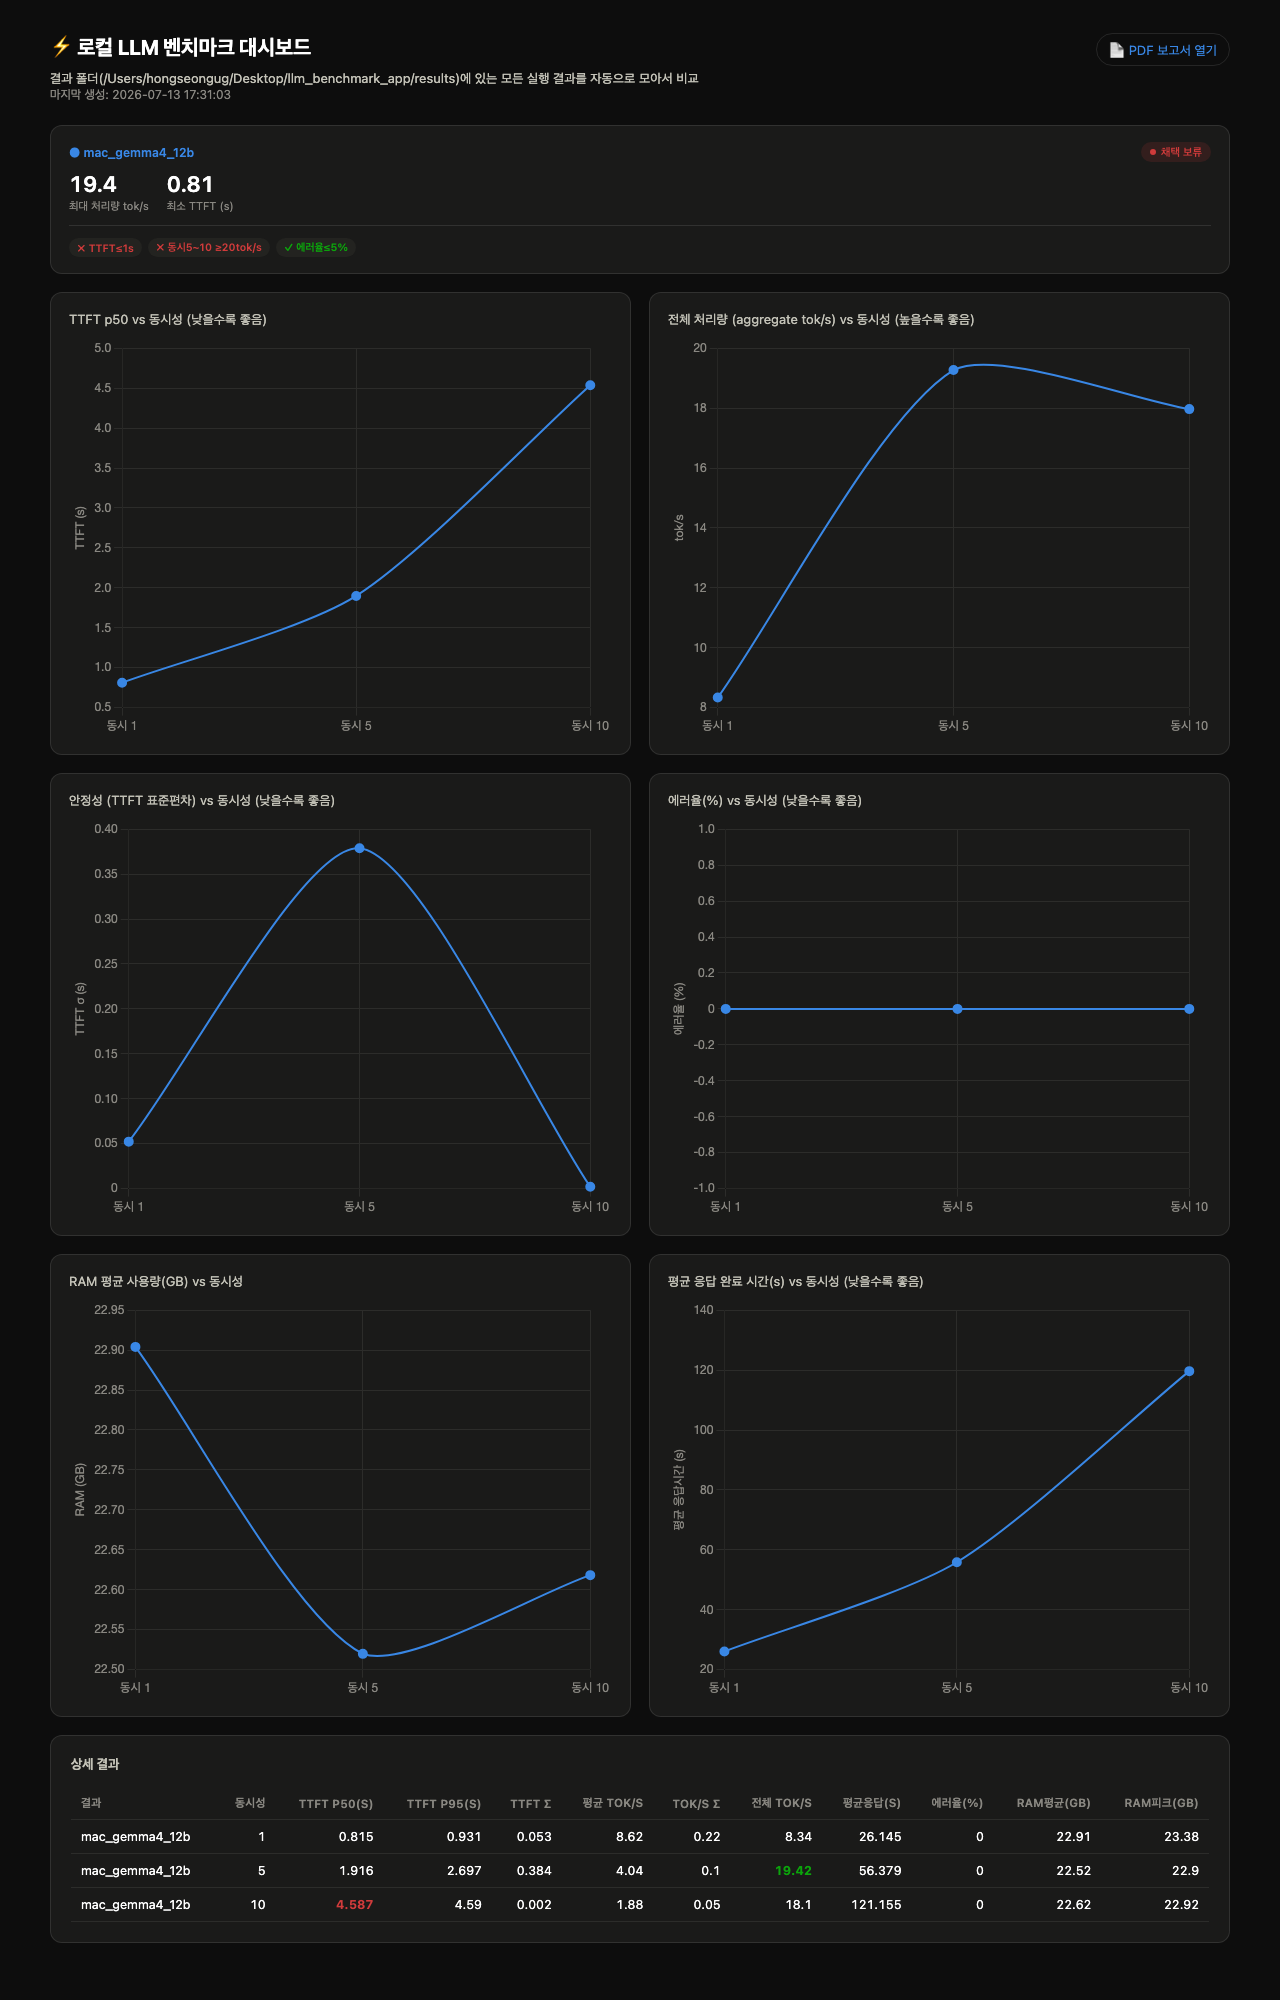
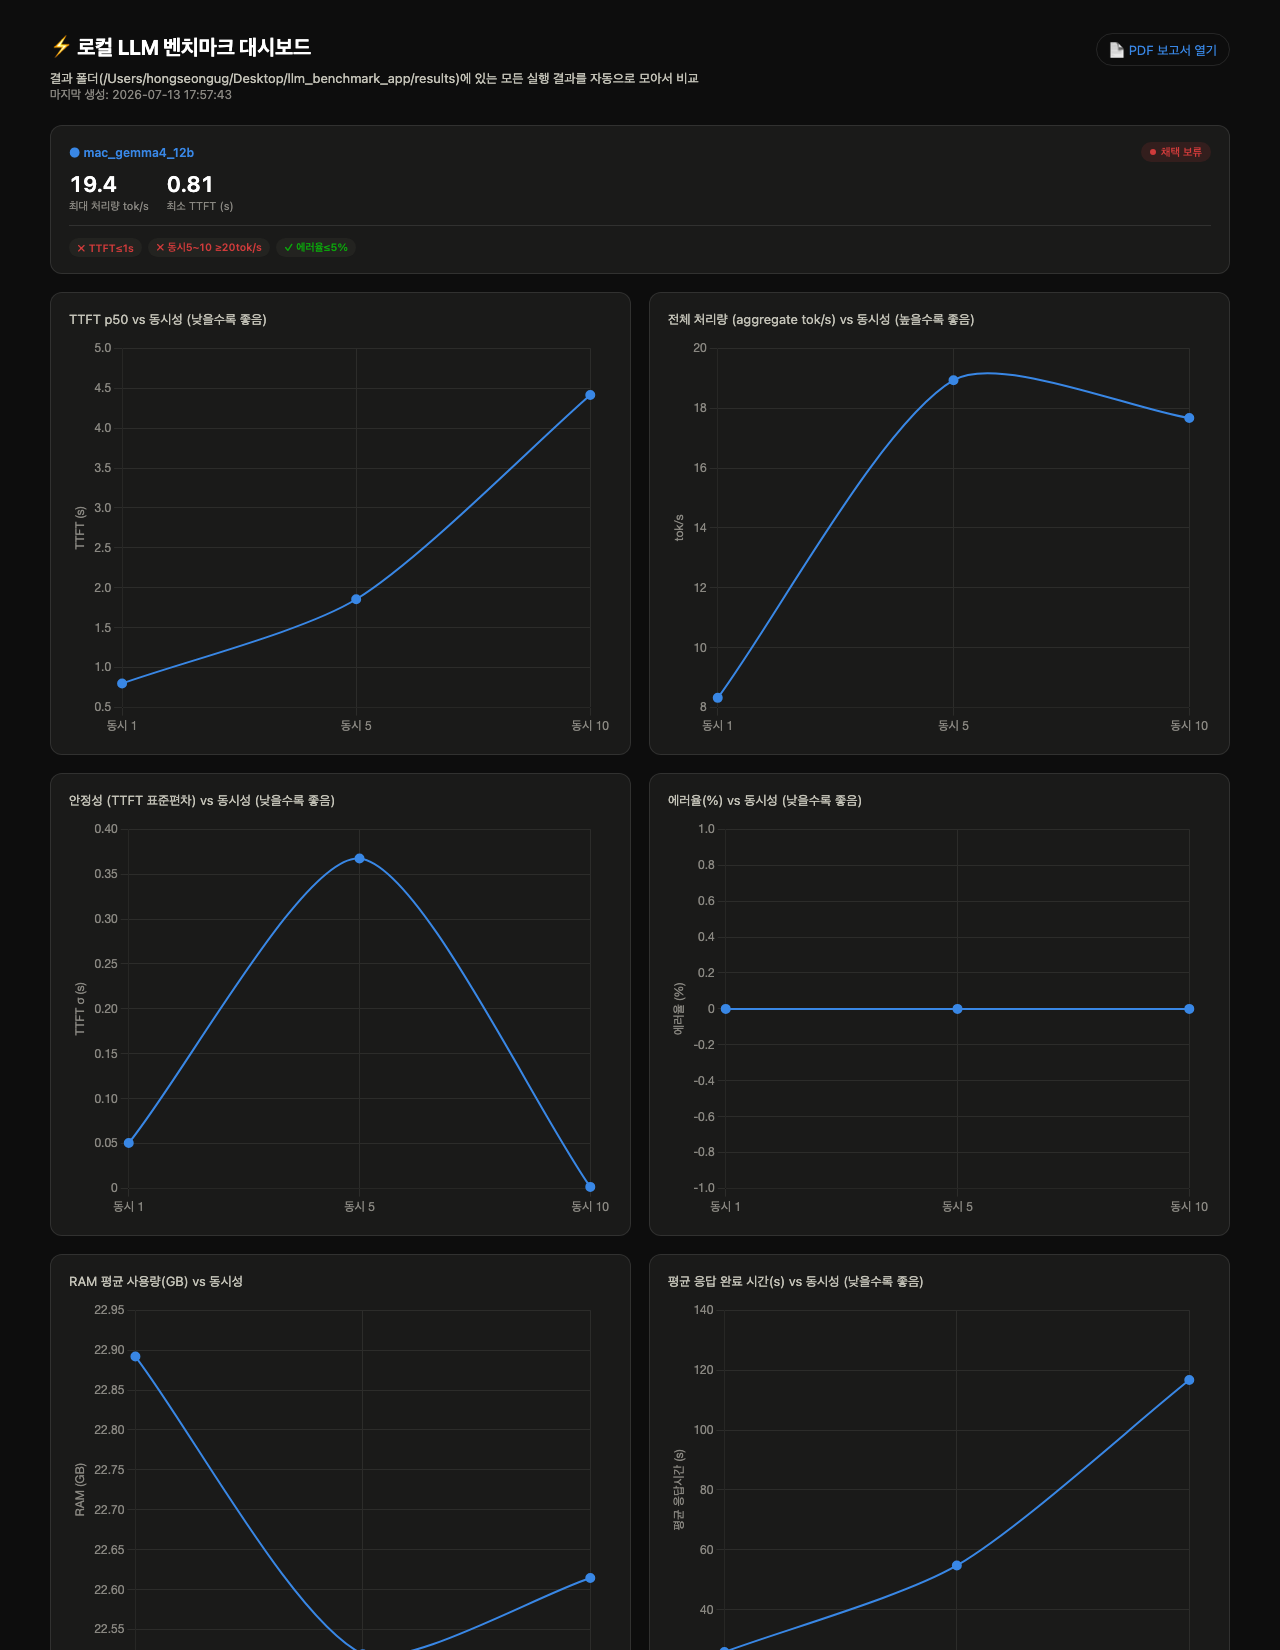
Fix PDF font rendering and polish report layout
내장 CID 폰트(HYSMyeongJo-Medium)가 라틴 문자를 전각으로 그려 "TTFT"가
"T T F T"처럼 벌어지는 문제가 있어 NanumGothic(SIL OFL, 번들)으로 교체.
누락되던 σ 글리프는 PDF 한정으로 "SD" 표기로 대체. 굵은 헤딩, 판정 강조
박스, 상단 액센트 바, 페이지 푸터 추가로 레이아웃도 정리.

diff --git a/benchmark_app.py b/benchmark_app.py
@@ -38,13 +38,19 @@ from reportlab.lib.pagesizes import A4, landscape
 from reportlab.lib.styles import ParagraphStyle
 from reportlab.lib.units import mm
 from reportlab.pdfbase import pdfmetrics
-from reportlab.pdfbase.cidfonts import UnicodeCIDFont
+from reportlab.pdfbase.ttfonts import TTFont
 from reportlab.platypus import Paragraph, SimpleDocTemplate, Spacer, Table, TableStyle
 
 DEFAULT_PROMPT = "너는 고객 상담 챗봇이다. 배송 지연 문의에 대해 3문장으로 답변해줘."
 
-PDF_FONT = "HYSMyeongJo-Medium"  # reportlab 내장 CID 폰트 (한글, 별도 폰트 파일 불필요)
-pdfmetrics.registerFont(UnicodeCIDFont(PDF_FONT))
+# 내장 CID 폰트(HYSMyeongJo-Medium)는 라틴 문자를 전각으로 그려 "TTFT"가 "T T F T"처럼 벌어지는 문제가 있어
+# 폭이 정상인 오픈소스 한글 폰트(NanumGothic, SIL OFL)로 교체함 — assets/fonts/에 번들
+_FONT_DIR = os.path.join(os.path.dirname(os.path.abspath(__file__)), "assets", "fonts")
+PDF_FONT = "NanumGothic"
+PDF_FONT_BOLD = "NanumGothic-Bold"
+pdfmetrics.registerFont(TTFont(PDF_FONT, os.path.join(_FONT_DIR, "NanumGothic-Regular.ttf")))
+pdfmetrics.registerFont(TTFont(PDF_FONT_BOLD, os.path.join(_FONT_DIR, "NanumGothic-Bold.ttf")))
+pdfmetrics.registerFontFamily(PDF_FONT, normal=PDF_FONT, bold=PDF_FONT_BOLD)
 
 
 async def single_request(client: httpx.AsyncClient, url: str, model: str, prompt: str) -> dict:
@@ -600,7 +606,7 @@ def judge_adoption(rows: list) -> tuple:
 COMPARE_METRICS = [
     ("p50_ttft", "TTFT p50", True, "s"),
     ("aggregate_tok_per_sec", "전체 처리량", False, "tok/s"),
-    ("ttft_stddev", "안정성 (TTFT σ)", True, "s"),
+    ("ttft_stddev", "안정성 (TTFT SD)", True, "s"),
     ("error_rate", "에러율", True, "%"),
 ]
 
@@ -634,14 +640,16 @@ def generate_pdf_report(results_dir: str) -> str:
     out_path = os.path.join(results_dir, "report.pdf")
 
     styles = {
-        "title": ParagraphStyle("title", fontName=PDF_FONT, fontSize=18, leading=22, spaceAfter=4),
+        "title": ParagraphStyle("title", fontName=PDF_FONT_BOLD, fontSize=20, leading=24, spaceAfter=4,
+                                 textColor=colors.HexColor("#12141a")),
         "meta": ParagraphStyle("meta", fontName=PDF_FONT, fontSize=9, textColor=colors.grey, spaceAfter=14),
-        "h2": ParagraphStyle("h2", fontName=PDF_FONT, fontSize=13, leading=16, spaceBefore=16, spaceAfter=6),
+        "h2": ParagraphStyle("h2", fontName=PDF_FONT_BOLD, fontSize=13, leading=16, spaceBefore=18, spaceAfter=8,
+                              textColor=colors.HexColor("#12141a")),
         "body": ParagraphStyle("body", fontName=PDF_FONT, fontSize=10, leading=15),
-        "verdict_ok": ParagraphStyle("verdict_ok", fontName=PDF_FONT, fontSize=10, leading=15,
-                                      textColor=colors.HexColor("#1a7f37"), spaceBefore=6),
-        "verdict_ng": ParagraphStyle("verdict_ng", fontName=PDF_FONT, fontSize=10, leading=15,
-                                      textColor=colors.HexColor("#c0392b"), spaceBefore=6),
+        "verdict_ok": ParagraphStyle("verdict_ok", fontName=PDF_FONT_BOLD, fontSize=11, leading=16,
+                                      textColor=colors.HexColor("#1a7f37"), spaceBefore=8),
+        "verdict_ng": ParagraphStyle("verdict_ng", fontName=PDF_FONT_BOLD, fontSize=11, leading=16,
+                                      textColor=colors.HexColor("#c0392b"), spaceBefore=8),
     }
 
     story = [
@@ -662,7 +670,7 @@ def generate_pdf_report(results_dir: str) -> str:
             story.append(Paragraph(
                 f"{headline} ({' · '.join(f'{l} {w}승' for l, w in ranked)})",
                 styles["verdict_ok"]))
-            header_style = ParagraphStyle("cmpHeader", fontName=PDF_FONT, fontSize=8.5,
+            header_style = ParagraphStyle("cmpHeader", fontName=PDF_FONT_BOLD, fontSize=8.5,
                                            textColor=colors.white, alignment=1, leading=10)
             cmp_header = [Paragraph("지표 (동시성별)", header_style)] + \
                 [Paragraph(ds["label"], header_style) for ds in datasets]
@@ -674,6 +682,7 @@ def generate_pdf_report(results_dir: str) -> str:
             cmp_style = [
                 ("FONTNAME", (0, 0), (-1, -1), PDF_FONT),
                 ("FONTSIZE", (0, 0), (-1, -1), 8.5),
+                ("FONTNAME", (0, 0), (-1, 0), PDF_FONT_BOLD),
                 ("BACKGROUND", (0, 0), (-1, 0), colors.HexColor("#2a2e3a")),
                 ("TEXTCOLOR", (0, 0), (-1, 0), colors.white),
                 ("GRID", (0, 0), (-1, -1), 0.5, colors.HexColor("#cccccc")),
@@ -688,7 +697,7 @@ def generate_pdf_report(results_dir: str) -> str:
             story.append(cmp_table)
             story.append(Spacer(1, 10 * mm))
 
-        header = ["동시성", "TTFT p50(s)", "TTFT p95(s)", "TTFT σ", "평균 tok/s", "tok/s σ",
+        header = ["동시성", "TTFT p50(s)", "TTFT p95(s)", "TTFT SD", "평균 tok/s", "tok/s SD",
                    "전체 tok/s", "평균응답(s)", "에러율(%)", "RAM평균(GB)", "RAM피크(GB)"]
         col_widths = [16 * mm, 20 * mm, 20 * mm, 16 * mm, 20 * mm, 16 * mm,
                       20 * mm, 20 * mm, 18 * mm, 22 * mm, 22 * mm]
@@ -713,6 +722,7 @@ def generate_pdf_report(results_dir: str) -> str:
             table.setStyle(TableStyle([
                 ("FONTNAME", (0, 0), (-1, -1), PDF_FONT),
                 ("FONTSIZE", (0, 0), (-1, -1), 8),
+                ("FONTNAME", (0, 0), (-1, 0), PDF_FONT_BOLD),
                 ("BACKGROUND", (0, 0), (-1, 0), colors.HexColor("#2a2e3a")),
                 ("TEXTCOLOR", (0, 0), (-1, 0), colors.white),
                 ("GRID", (0, 0), (-1, -1), 0.5, colors.HexColor("#cccccc")),
@@ -722,20 +732,44 @@ def generate_pdf_report(results_dir: str) -> str:
             story.append(table)
 
             ok, reason = judge_adoption(ds["rows"])
-            story.append(Paragraph(f"판정: {'채택 가능' if ok else '채택 보류'} — {reason}",
-                                    styles["verdict_ok"] if ok else styles["verdict_ng"]))
+            verdict_bg = colors.HexColor("#e9f7ee") if ok else colors.HexColor("#fbeceb")
+            verdict_table = Table(
+                [[Paragraph(f"판정: {'채택 가능' if ok else '채택 보류'} — {reason}",
+                            styles["verdict_ok"] if ok else styles["verdict_ng"])]],
+                colWidths=[269 * mm],
+            )
+            verdict_table.setStyle(TableStyle([
+                ("BACKGROUND", (0, 0), (-1, -1), verdict_bg),
+                ("LEFTPADDING", (0, 0), (-1, -1), 10),
+                ("RIGHTPADDING", (0, 0), (-1, -1), 10),
+                ("TOPPADDING", (0, 0), (-1, -1), 8),
+                ("BOTTOMPADDING", (0, 0), (-1, -1), 8),
+            ]))
+            story.append(Spacer(1, 6 * mm))
+            story.append(verdict_table)
 
         story.append(Paragraph("판단 기준", styles["h2"]))
         story.append(Paragraph(
             "TTFT p50 1초 이하, 동시 5~10명 구간에서 사용자당 20 tok/s 이상, 에러율 5% 이하를 모두 만족하면 "
             "온프레미스 챗봇 채택 가능. 못 미치면 클라우드 API(Gemini Flash 등) 유지가 ROI상 유리. "
-            "TTFT σ / tok/s σ는 표준편차로 응답 일관성(안정성)을 나타내며, 값이 클수록 응답 편차가 커 사용자 체감 품질이 불안정함을 의미함.",
+            "TTFT SD / tok/s SD는 표준편차로 응답 일관성(안정성)을 나타내며, 값이 클수록 응답 편차가 커 사용자 체감 품질이 불안정함을 의미함.",
             styles["body"]))
 
+    def _decorate_page(canvas, doc_):
+        canvas.saveState()
+        page_w, page_h = landscape(A4)
+        canvas.setFillColor(colors.HexColor("#5b8cff"))
+        canvas.rect(0, page_h - 4, page_w, 4, stroke=0, fill=1)
+        canvas.setFont(PDF_FONT, 8)
+        canvas.setFillColor(colors.grey)
+        canvas.drawString(14 * mm, 10 * mm, "llm-bench-dashboard 자동 생성 보고서")
+        canvas.drawRightString(page_w - 14 * mm, 10 * mm, f"{canvas.getPageNumber()}p")
+        canvas.restoreState()
+
     doc = SimpleDocTemplate(out_path, pagesize=landscape(A4),
-                             topMargin=16 * mm, bottomMargin=16 * mm,
+                             topMargin=16 * mm, bottomMargin=18 * mm,
                              leftMargin=14 * mm, rightMargin=14 * mm)
-    doc.build(story)
+    doc.build(story, onFirstPage=_decorate_page, onLaterPages=_decorate_page)
     return out_path
 
 

diff --git a/README.md b/README.md
@@ -103,7 +103,10 @@ pip install httpx psutil reportlab --break-system-packages
 |---|---|
 | `httpx` | 비동기 스트리밍 요청 |
 | `psutil` | 부하 중 RAM 사용량 샘플링 |
-| `reportlab` | PDF 보고서 생성 (한글 CID 폰트 내장, 별도 폰트 파일 불필요) |
+| `reportlab` | PDF 보고서 생성 |
+
+> [!NOTE]
+> PDF 한글 폰트는 reportlab 내장 CID 폰트 대신 `assets/fonts/`에 번들된 [NanumGothic](https://github.com/google/fonts/tree/main/ofl/nanumgothic)(SIL OFL 1.1)을 사용한다. 내장 CID 폰트는 라틴 문자를 전각으로 그려 `TTFT`가 `T T F T`처럼 벌어지는 문제가 있어서 교체함 — 별도 설치 없이 저장소에 이미 포함돼 있다.
 
 ## 실행
 